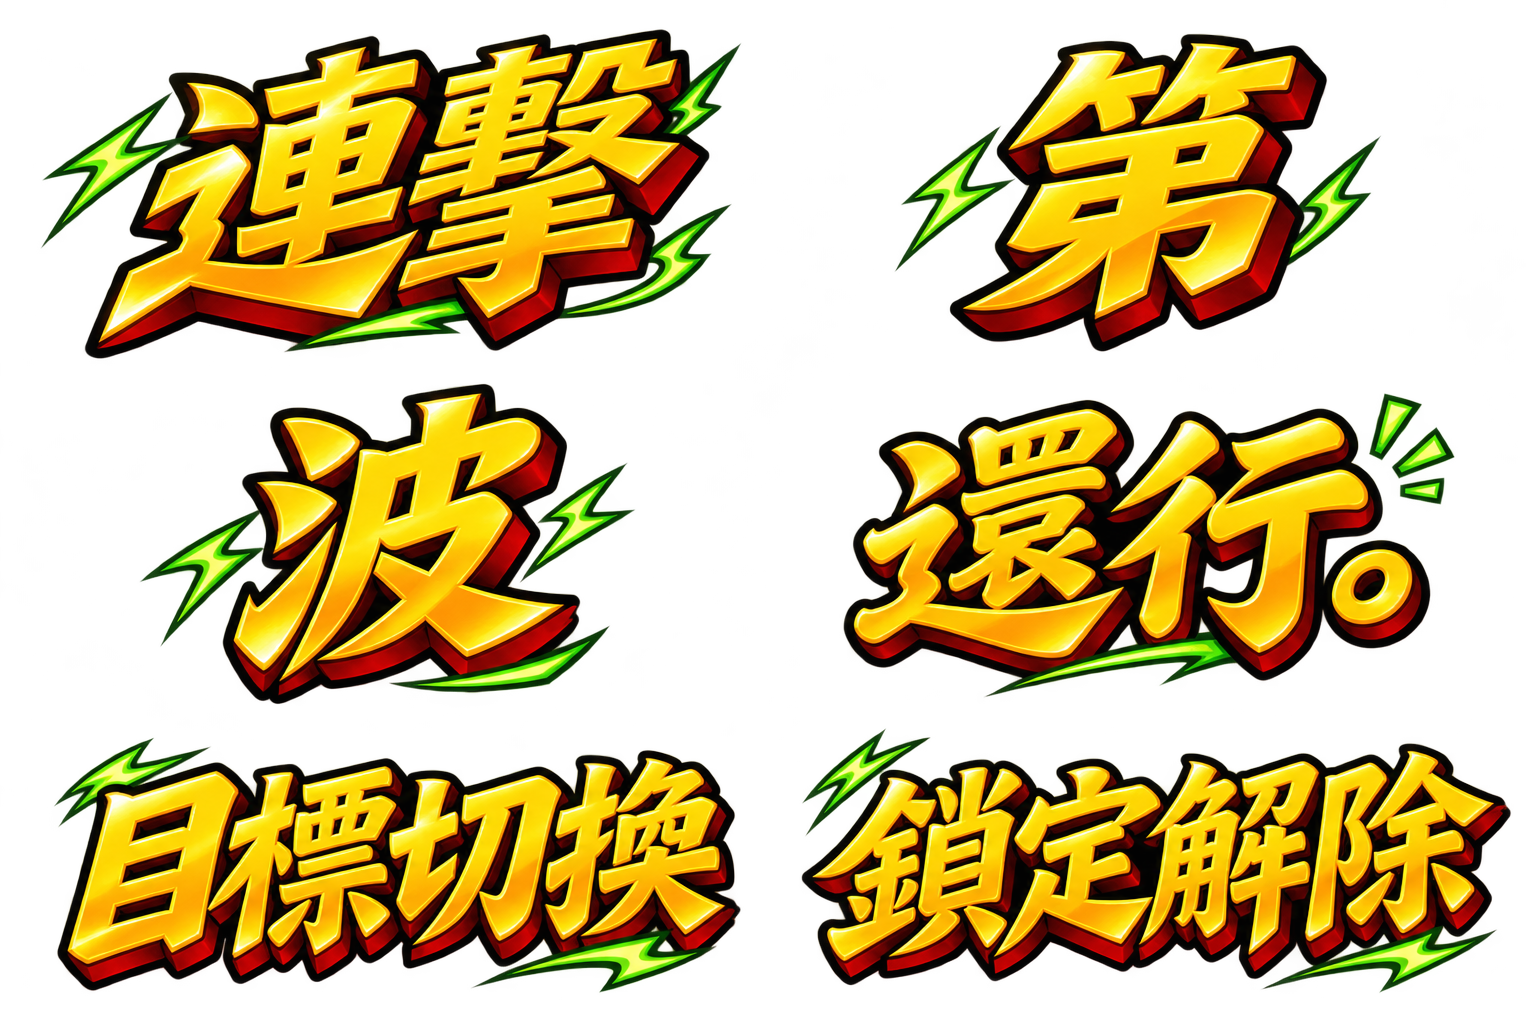
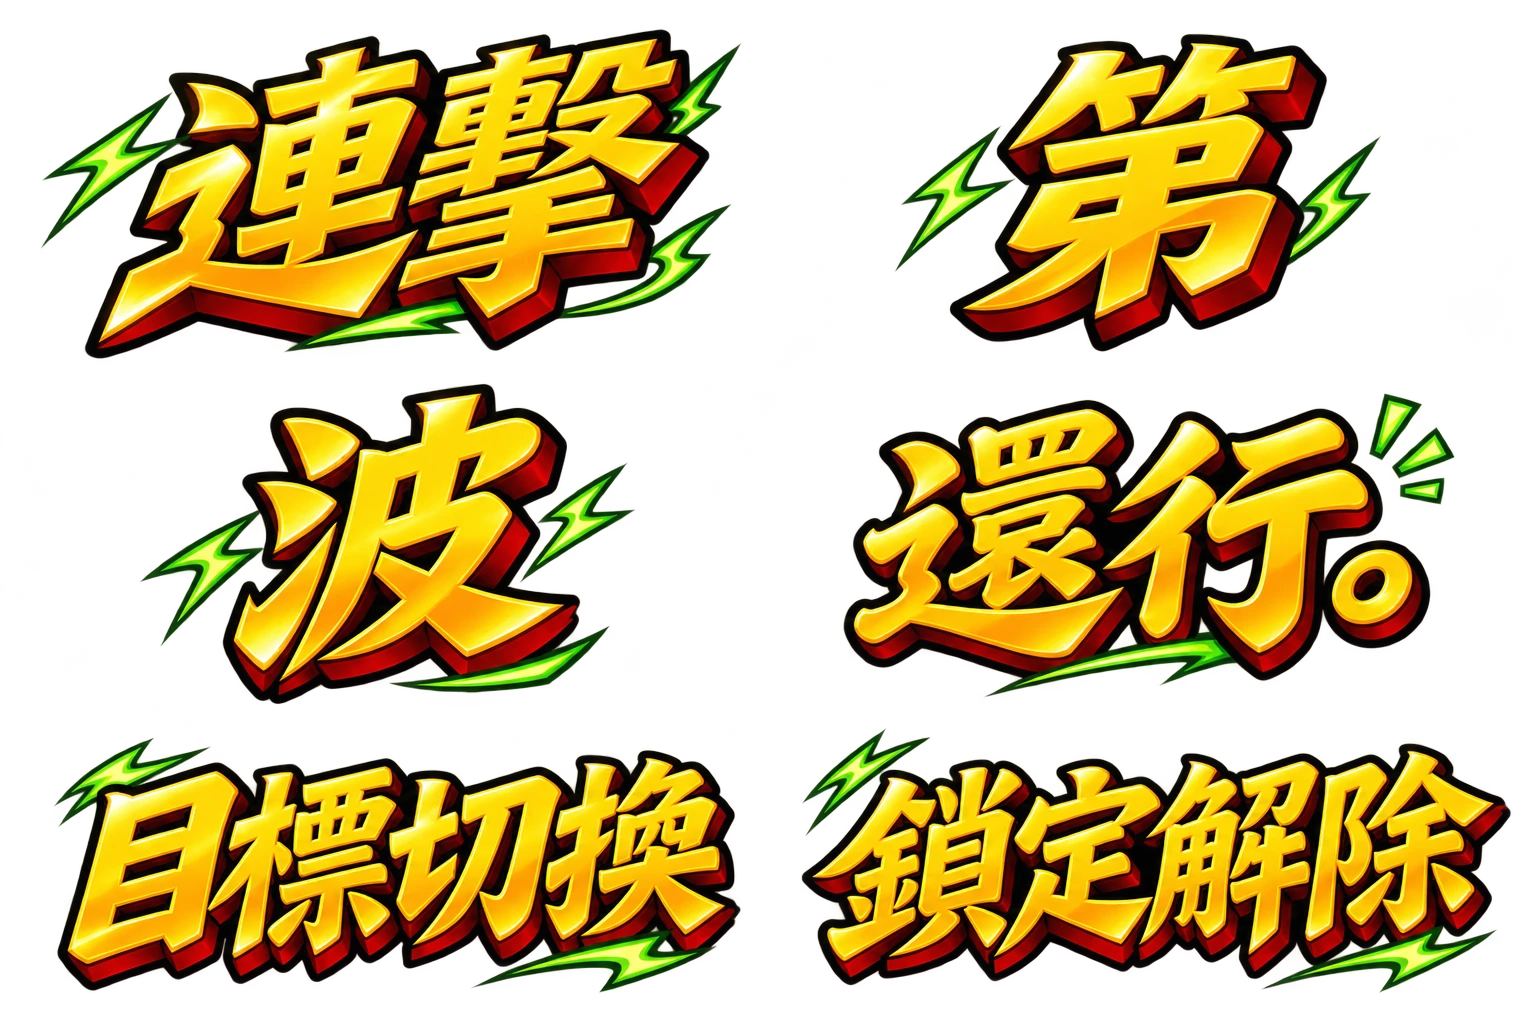
perf(game02): 字藝改 q92 有損 WebP(保留透明), titles 15M→3.6M
- compress_runtime.py: /titles/ 走 q92 有損並保留 alpha(RGBA 透明)
- 字藝(system 字圖集)每張 ~1.5MB→~0.37MB(-76%); q92 目視與無損幾乎一致(附對比)
- 進關 game-scope(單語言) 28.5→26.2MB(原43, 累計-39%); repo 省 11.4MB
- 透明保留、無頭載入 0 error

Claude-Session: https://claude.ai/code/session_01WnPXDdi6BAXVqVrnGC3LmN

diff --git a/02_brave_guy/tools/compress_runtime.py b/02_brave_guy/tools/compress_runtime.py
@@ -11,12 +11,12 @@ ROOT = Path(__file__).resolve().parents[1]
 urls = json.loads((ROOT / 'assets/runtime-images.json').read_text())
 MAX_EFFORT = False
 
-# 全螢幕插畫（過場、著裝特寫）改走視覺無損的有損 WebP：這些圖沒有透明、
-# 以插畫為主，q90 肉眼看不出差別卻能省掉 60%+ 容量。有真透明的（字藝、剪影）仍走無損。
+# 插畫與字藝改走視覺無損的有損 WebP：過場/著裝（無透明）以 q90 壓；
+# 字藝（system 字圖集，RGBA 透明）以 q92 壓並保留 alpha，q92 肉眼看不出差別卻能省 ~76%。
 LOSSY_QUALITY = 90
 
 def wants_lossy(url, original):
-    if '/cinematics/' in url:
+    if '/cinematics/' in url or '/titles/' in url:
         return True
     if '/transform/' in url:
         return original.getchannel('A').getextrema() == (255, 255)  # 僅對完全不透明者有損
@@ -32,9 +32,12 @@ def convert(url):
         previous_size = dst.stat().st_size if dst.exists() else None
 
         if wants_lossy(url, original):
-            # 有損：由來源 PNG 以 q90 重壓，native 尺寸；確定性編碼，只在更小時覆寫（可重複執行）
+            # 有損：由來源 PNG 重壓，native 尺寸；確定性編碼，只在更小時覆寫（可重複執行）
+            quality = 92 if '/titles/' in url else LOSSY_QUALITY
+            opaque = original.getchannel('A').getextrema() == (255, 255)
+            image_out = original.convert('RGB') if opaque else original  # 字藝等透明圖保留 alpha
             data = BytesIO()
-            original.convert('RGB').save(data, 'WEBP', quality=LOSSY_QUALITY, method=6)
+            image_out.save(data, 'WEBP', quality=quality, method=6)
             payload = data.getvalue()
             if previous_size is None or len(payload) < previous_size:
                 dst.parent.mkdir(parents=True, exist_ok=True)
@@ -43,7 +46,7 @@ def convert(url):
                 print(f'{dst.name}(lossy): {previous_size} -> {dst.stat().st_size}', flush=True)
             return dict(source=source, runtime=url, before=src.stat().st_size, after=dst.stat().st_size,
                         width=original.width, height=original.height, pixelIdentical=False, lossy=True,
-                        quality=LOSSY_QUALITY,
+                        quality=quality,
                         sourceSHA256=hashlib.sha256(src.read_bytes()).hexdigest(),
                         maxEffortCompared=MAX_EFFORT, previousRuntimeBytes=previous_size)
 
